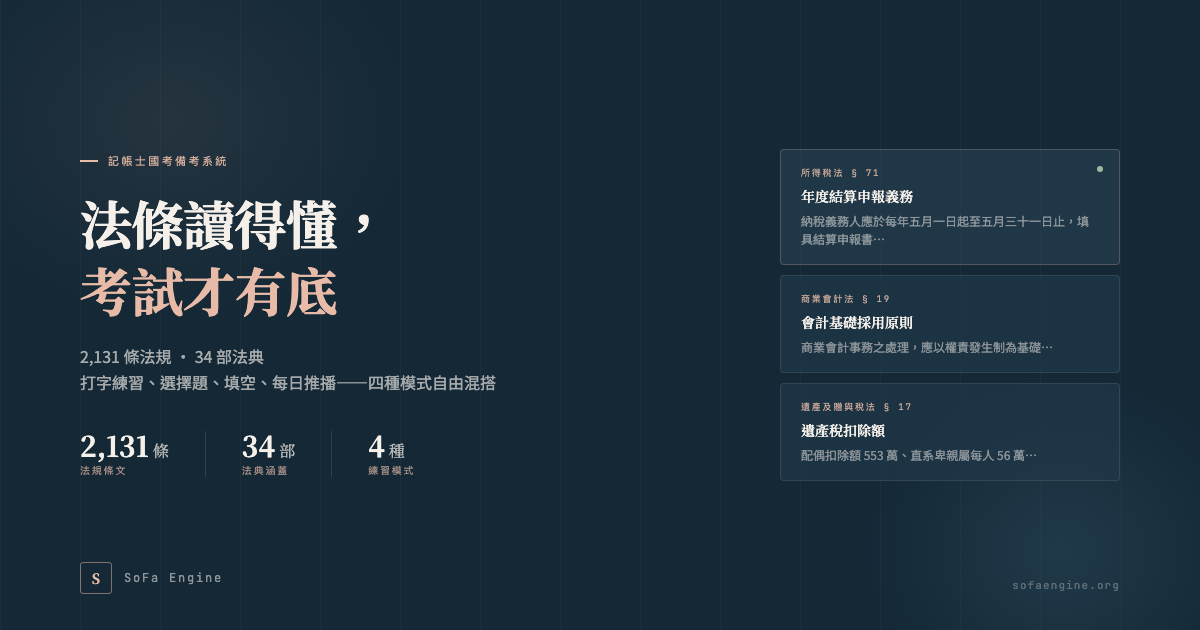
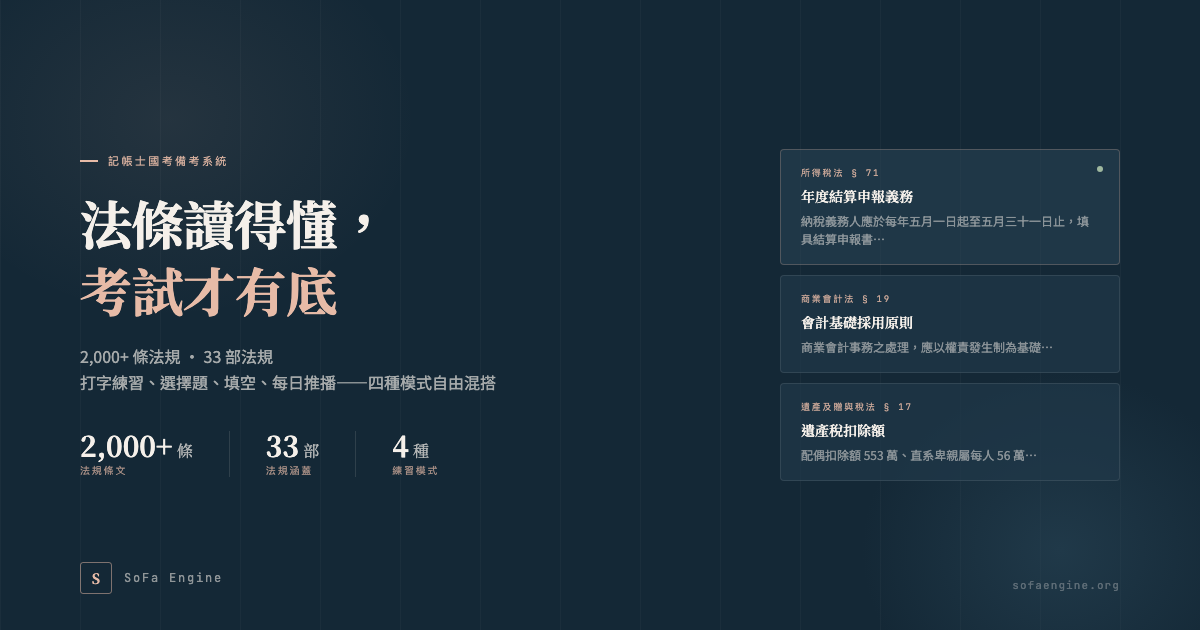
fix: 數字對齊官網 + 修正文章語氣
- 全文數字統一：2,131→2,000+、34 部→33 部法規（與 index.html 一致）
- og-image.png 重新截圖（數字已修正）
- 移除「最低效」「有效得多」「最強」等過強斷言，改為描述性語氣
- 移除打字輸出段落中隱含貶低其他讀法的對比語句
- CTA 段落數字同步修正

Changed region(s): [[0.0925, 0.6937, 0.2775, 0.754], [0.0617, 0.5429, 0.2467, 0.6032], [0.3083, 0.6937, 0.37, 0.754]]

diff --git a/blog/how-to-read-bookkeeper-laws.html b/blog/how-to-read-bookkeeper-laws.html
@@ -4,13 +4,13 @@
 <meta charset="utf-8">
 <title>記帳士法條怎麼讀？從陌生到熟背的系統方法 — SoFa Engine</title>
 <meta name="viewport" content="width=device-width, initial-scale=1">
-<meta name="description" content="記帳士考試法條多達 2,131 條，許多人背了又忘、讀了沒感覺。這篇文章拆解「法條讀法」：如何抓結構、找數字、建連結，讓每條法規都真正進到腦子裡。">
+<meta name="description" content="記帳士考試法條超過 2,000 條，許多人背了又忘、讀了沒感覺。這篇文章拆解「法條讀法」：如何抓結構、找數字、建連結，讓每條法規都真正進到腦子裡。">
 <link rel="canonical" href="https://sofaengine.org/blog/how-to-read-bookkeeper-laws">
 
 <meta property="og:type" content="article">
 <meta property="og:url" content="https://sofaengine.org/blog/how-to-read-bookkeeper-laws">
 <meta property="og:title" content="記帳士法條怎麼讀？從陌生到熟背的系統方法">
-<meta property="og:description" content="記帳士考試法條多達 2,131 條，許多人背了又忘、讀了沒感覺。拆解「法條讀法」：如何抓結構、找數字、建連結。">
+<meta property="og:description" content="記帳士考試法條超過 2,000 條，許多人背了又忘、讀了沒感覺。拆解「法條讀法」：如何抓結構、找數字、建連結。">
 <meta property="og:image" content="https://sofaengine.org/og-image.png">
 <meta property="og:image:width" content="1200">
 <meta property="og:image:height" content="630">
@@ -26,7 +26,7 @@
   "@context": "https://schema.org",
   "@type": "Article",
   "headline": "記帳士法條怎麼讀？從陌生到熟背的系統方法",
-  "description": "記帳士考試法條多達 2,131 條，許多人背了又忘、讀了沒感覺。這篇文章拆解「法條讀法」：如何抓結構、找數字、建連結，讓每條法規都真正進到腦子裡。",
+  "description": "記帳士考試法條超過 2,000 條，許多人背了又忘、讀了沒感覺。這篇文章拆解「法條讀法」：如何抓結構、找數字、建連結，讓每條法規都真正進到腦子裡。",
   "author": {
     "@type": "Organization",
     "name": "SoFa Engine",
@@ -429,7 +429,7 @@
 <main class="content">
 
   <p>
-    記帳士考試橫跨所得稅法、商業會計法、遺產及贈與稅法等 <strong>34 部法典、2,131 條條文</strong>。
+    記帳士考試橫跨所得稅法、商業會計法、遺產及贈與稅法等 <strong>33 部法規、逾 2,000 條條文</strong>。
     許多考生第一次翻開六法全書的感覺只有一個字：暈。條文密密麻麻，數字一堆，讀完這條忘了上條。
   </p>
   <p>
@@ -476,7 +476,7 @@
 
   <p>
     把一條法律拆成「主詞 × 動作 × 時間 × 對象」四個欄位填入，你就等於用自己的話把它重寫了一遍。
-    這比反覆朗讀原文有效得多，因為你在<em>主動加工</em>而不是被動掃字。
+    把一條法律拆成這四個欄位，等於用自己的話重寫了一遍。比對著原文念，更容易留下印象。
   </p>
 
   <h2>三、數字錨點：數字不是用來死背的</h2>
@@ -538,7 +538,7 @@
   <h2>五、主動輸出：讀十遍不如打一遍</h2>
 
   <p>
-    被動閱讀是最低效的學習方式。讀法條最有效的搭配是<em>打字輸出</em>——把條文從記憶裡拉出來、用鍵盤敲出來的過程，就是最強的記憶鞏固。
+    反覆閱讀有個盲點：讀的當下以為記住了，但沒有輸出就很難確認。讀法條可以試試<em>打字輸出</em>——把條文從記憶裡拉出來、用鍵盤敲出來，比較容易發現自己哪裡其實還沒記清楚。
   </p>
 
   <p>
@@ -553,7 +553,7 @@
   </ul>
 
   <p>
-    這四種模式加起來，就是一個從<em>被動認識 → 主動記憶 → 長期保持</em>的完整系統。
+    這四種模式可以依照當天狀態混搭：時間多就打字，通勤碎片就選擇題，每天早上收一條推播保持接觸感。
   </p>
 
   <h2>六、常見錯誤：為什麼讀了記不住</h2>
@@ -588,7 +588,7 @@
 
   <div class="cta-block">
     <h3>把讀法落地成練習</h3>
-    <p>SoFa Engine 提供 2,131 條法規的打字練習、選擇題、填空與每日推播，免費開始使用。</p>
+    <p>SoFa Engine 有 2,000+ 條法規的打字練習、選擇題、填空與每日 LINE 推播，免費開始使用。</p>
     <a class="cta-btn" href="https://line.me/R/ti/p/@928oakbo">加入 LINE Bot 免費開始</a>
   </div>
 

diff --git a/og-image-render.html b/og-image-render.html
@@ -263,19 +263,19 @@
       </h1>
 
       <p class="subtitle">
-        2,131 條法規 · 34 部法典<br>
+        2,000+ 條法規 · 33 部法規<br>
         打字練習、選擇題、填空、每日推播——四種模式自由混搭
       </p>
 
       <div class="stats">
         <div class="stat-item">
-          <div class="stat-num">2,131<span class="unit"> 條</span></div>
+          <div class="stat-num">2,000+<span class="unit"> 條</span></div>
           <div class="stat-label">法規條文</div>
         </div>
         <div class="stat-divider"></div>
         <div class="stat-item">
-          <div class="stat-num">34<span class="unit"> 部</span></div>
-          <div class="stat-label">法典涵蓋</div>
+          <div class="stat-num">33<span class="unit"> 部</span></div>
+          <div class="stat-label">法規涵蓋</div>
         </div>
         <div class="stat-divider"></div>
         <div class="stat-item">